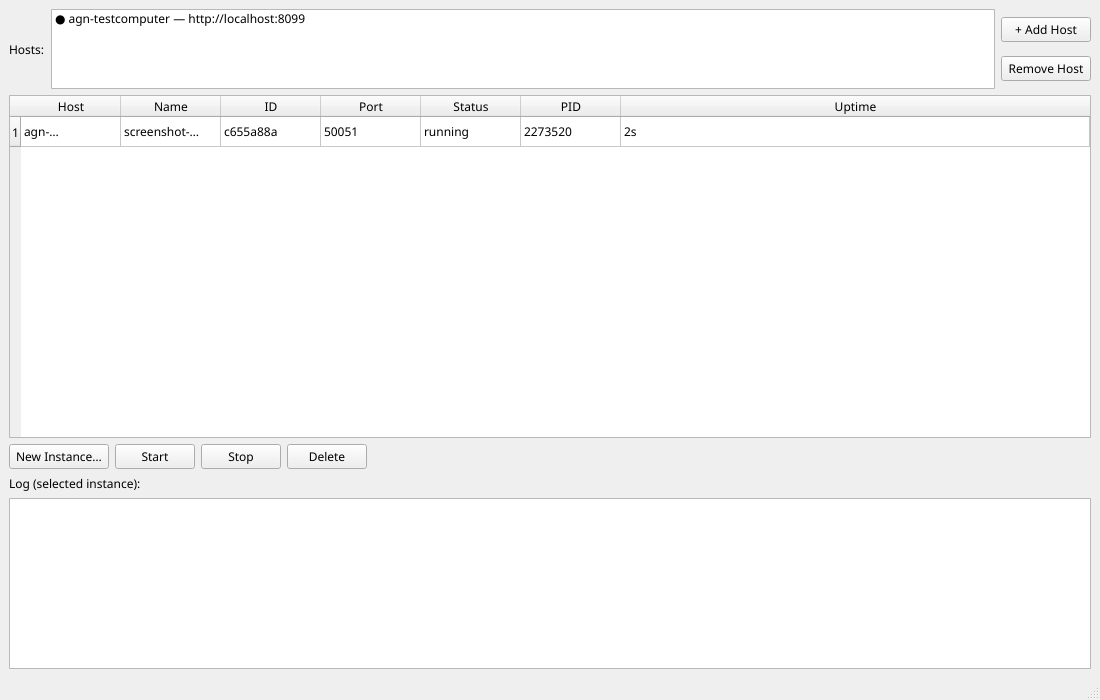
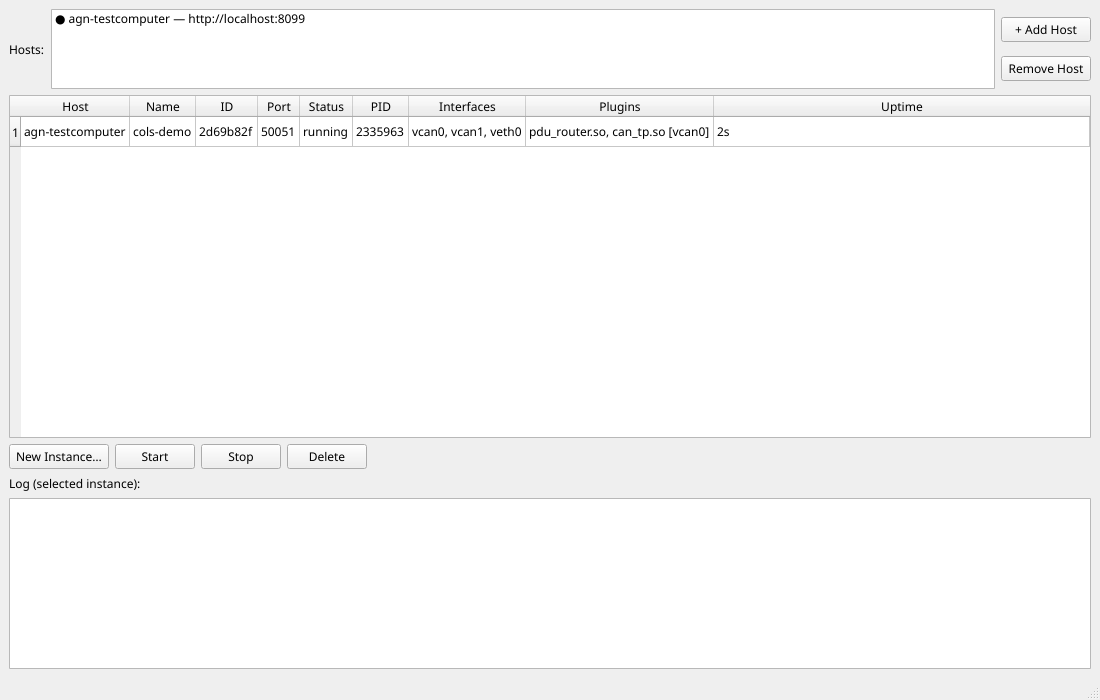
feat: add Interfaces/Plugins columns to admin GUI, fix a real stop-timeout bug
Instance table is now Host;Name;ID;Port;Status;PID;Interfaces;Plugins;
Uptime. Interfaces combines can_ifaces+eth_ifaces. Plugins shows each
node plugin's .so basename, with the interface it's bound to in
brackets when its config carries one (can_tp.so [vcan0]) -- the
'linked to the plugin' association requested. Added
resizeColumnsToContents() since the default even-width split
truncated the wider new columns.

Building a real screenshot to verify this (two plugins, one with an
iface config) surfaced a genuine bug along the way, not a test
artifact: AgentClient's default 5s timeout could be shorter than
GatewayInstance.stop()'s own worst case (SIGTERM + up to a 5s wait,
then SIGKILL) -- a real Stop click on a slightly slow shutdown could
read back a false 'Stop failed' timeout even though the gateway did
stop a moment later. Fixed by giving start_instance/stop_instance a
dedicated 15s timeout, well clear of that worst case; quick reads
(list/get/log) keep the original 5s default.

Verified on real hardware (agn-testcomputer, Xvfb + QWidget.grab(),
not headless-only): re-ran with the fix, no timeout, and the
screenshot confirms both new columns render fully -- 'vcan0, vcan1,
veth0' / 'pdu_router.so, can_tp.so [vcan0]' -- not truncated.
Screenshot in admin_gui/docs/screenshot.png updated to match.

Docs: admin_gui/README.md. Tests: test/AdminGui.md TC_AdminGui_005
(new, OK), TestSuite.md count 148->149.
backlog/launcher_agent_backlog.md records both the feature and the
[…]

Changed region(s): [[0.0309, 0.15, 0.6491, 0.21], [0.7727, 0.15, 0.8345, 0.18]]

diff --git a/admin_gui/main.py b/admin_gui/main.py
@@ -18,6 +18,7 @@ agent doesn't expose that either -- see the backlog).
 from __future__ import annotations
 
 import json
+import os
 import sys
 from typing import Optional, Tuple
 
@@ -48,6 +49,23 @@ from agent_client import AgentClient, AgentError
 from host_store import HostStore
 
 _POLL_INTERVAL_SEC = 2.0
+
+
+def _format_interfaces(inst: dict) -> str:
+    ifaces = list(inst.get("can_ifaces") or []) + list(inst.get("eth_ifaces") or [])
+    return ", ".join(ifaces) if ifaces else "—"
+
+
+def _format_plugins(inst: dict) -> str:
+    """One entry per node_plugins item: the .so basename, plus the iface it's
+    bound to (from its config, e.g. can_tp.so?{"iface": "vcan0"}) in brackets
+    when present -- that's the "linked to" association the table shows."""
+    parts = []
+    for p in inst.get("node_plugins") or []:
+        name = os.path.basename(p.get("path", "")) or p.get("path", "?")
+        iface = (p.get("config") or {}).get("iface")
+        parts.append(f"{name} [{iface}]" if iface else name)
+    return ", ".join(parts) if parts else "—"
 
 
 class PollWorker(QThread):
@@ -204,8 +222,10 @@ class MainWindow(QMainWindow):
         root.addLayout(host_bar)
 
         # ── Instance table ──
-        self.table = QTableWidget(0, 7)
-        self.table.setHorizontalHeaderLabels(["Host", "Name", "ID", "Port", "Status", "PID", "Uptime"])
+        self.table = QTableWidget(0, 9)
+        self.table.setHorizontalHeaderLabels(
+            ["Host", "Name", "ID", "Port", "Status", "PID", "Interfaces", "Plugins", "Uptime"]
+        )
         self.table.horizontalHeader().setStretchLastSection(True)
         self.table.setSelectionBehavior(QAbstractItemView.SelectRows)
         self.table.setSelectionMode(QAbstractItemView.SingleSelection)
@@ -305,7 +325,8 @@ class MainWindow(QMainWindow):
             uptime = f"{inst['uptime_sec']:.0f}s" if inst.get("uptime_sec") is not None else "—"
             values = [
                 host_name, inst["name"], inst["id"], str(inst["grpc_port"]),
-                inst["status"], str(inst["pid"] or "—"), uptime,
+                inst["status"], str(inst["pid"] or "—"),
+                _format_interfaces(inst), _format_plugins(inst), uptime,
             ]
             for c, v in enumerate(values):
                 item = QTableWidgetItem(v)
@@ -314,6 +335,10 @@ class MainWindow(QMainWindow):
         if select_row is not None:
             self.table.selectRow(select_row)
         self.table.blockSignals(False)
+        # Interfaces/Plugins can be the widest cells (multiple entries,
+        # iface annotations) -- size every column to its actual content
+        # instead of the default even split, which truncated them.
+        self.table.resizeColumnsToContents()
 
     def on_selection_changed(self) -> None:
         items = self.table.selectedItems()

diff --git a/admin_gui/agent_client.py b/admin_gui/agent_client.py
@@ -17,15 +17,25 @@ class AgentError(Exception):
     {"detail": ...} body when present)."""
 
 
+# start/stop spawn or tear down a whole boat_gateway process (SIGTERM,
+# then up to a 5s wait, then SIGKILL as a fallback -- see
+# ui/launcher_agent.py's GatewayInstance.stop()). A client-side timeout at
+# or below that 5s wait is a real, previously-hit bug: the server-side call
+# can legitimately take just over 5s and still succeed, but a <=5s client
+# timeout reads that as a failure -- a false "Stop failed" even though the
+# gateway did stop. Give lifecycle calls real headroom over that worst case.
+_LIFECYCLE_TIMEOUT = 15.0
+
+
 class AgentClient:
     def __init__(self, base_url: str, timeout: float = 5.0) -> None:
         self.base_url = base_url.rstrip("/")
         self.timeout = timeout
 
-    def _request(self, method: str, path: str, **kwargs) -> Any:
+    def _request(self, method: str, path: str, timeout: Optional[float] = None, **kwargs) -> Any:
         url = f"{self.base_url}{path}"
         try:
-            resp = requests.request(method, url, timeout=self.timeout, **kwargs)
+            resp = requests.request(method, url, timeout=timeout or self.timeout, **kwargs)
         except requests.RequestException as e:
             raise AgentError(f"{method} {url}: {e}") from e
         if not resp.ok:
@@ -73,10 +83,10 @@ class AgentClient:
         return self._request("POST", "/api/instances", json=body)
 
     def start_instance(self, instance_id: str) -> dict:
-        return self._request("POST", f"/api/instances/{instance_id}/start")
+        return self._request("POST", f"/api/instances/{instance_id}/start", timeout=_LIFECYCLE_TIMEOUT)
 
     def stop_instance(self, instance_id: str) -> dict:
-        return self._request("POST", f"/api/instances/{instance_id}/stop")
+        return self._request("POST", f"/api/instances/{instance_id}/stop", timeout=_LIFECYCLE_TIMEOUT)
 
     def delete_instance(self, instance_id: str) -> None:
         self._request("DELETE", f"/api/instances/{instance_id}")

diff --git a/backlog/launcher_agent_backlog.md b/backlog/launcher_agent_backlog.md
@@ -130,6 +130,37 @@ correctly — host list with a filled health dot, instance table showing the
 real running PID/uptime, action buttons, log panel all positioned and
 readable as designed.
 
+## Done (2026-08-12) — Interfaces/Plugins columns, and a real timeout bug they surfaced
+
+Added `Interfaces` and `Plugins` columns to the instance table (full order:
+Host, Name, ID, Port, Status, PID, Interfaces, Plugins, Uptime).
+`Interfaces` combines `can_ifaces` + `eth_ifaces`. `Plugins` shows each node
+plugin's `.so` basename, with the interface it's bound to in brackets when
+its config carries one (`can_tp.so [vcan0]`) — the "linked to the plugin"
+association the user asked for. `QTableWidget.resizeColumnsToContents()`
+added after populating rows, since the default even-width split truncated
+the wider Interfaces/Plugins cells.
+
+Building a real screenshot to check this (two plugins, one with an `iface`
+config) surfaced a genuine, previously-unnoticed bug, not a test artifact
+this time: `AgentClient`'s default 5s timeout could be shorter than
+`GatewayInstance.stop()`'s own worst case (SIGTERM + up to a 5s wait, then
+SIGKILL) — a real user clicking **Stop** in the UI on a slightly slow
+shutdown could get a false "Stop failed" read-timeout error even though the
+gateway did actually stop a moment later. First reproduction: two demo
+gateway processes ended up killed with `exit_code: -9` because an *external*
+test-harness `timeout` wrapper (not the app) expired while waiting on that
+same slow HTTP response and SIGKILLed the whole process group. Fixed by
+giving `start_instance`/`stop_instance` specifically a 15s client-side
+timeout (`_LIFECYCLE_TIMEOUT`), well clear of the server's worst case;
+quick reads (list/get/log) keep the original 5s default.
+
+Verified on real hardware: re-ran the same scenario with the fix and an
+adequately long harness timeout — no timeout, `stop_instance` returned
+normally, and the screenshot confirmed both new columns render correctly:
+`Interfaces: vcan0, vcan1, veth0`, `Plugins: pdu_router.so, can_tp.so
+[vcan0]`.
+
 ## Next steps (not started)
 
 - Interface-creation UI / agent endpoints (still deliberately deferred, see

diff --git a/test/AdminGui.md b/test/AdminGui.md
@@ -131,3 +131,44 @@ both, created one instance on each. The aggregated snapshot contained
 instances from both host URLs, and `win.rebuild_table()` produced exactly 2
 rows with distinct Host-column values (`host-a`, `host-b`) matching each
 instance's actual origin.
+
+---
+
+### TC_AdminGui_005_interfaces_and_plugins_columns
+
+**TestSets:** [AdminGui]
+
+**Preconditions:**
+- A reachable agent; at least one CAN and one Eth interface available on it
+
+**TestSteps:**
+1. **New Instance…** with multiple CAN interfaces, an Eth interface, and
+   two node plugins — one with an `{"iface": ...}` config, one without
+2. Observe the row's Interfaces and Plugins columns
+
+**Expected:**
+- Interfaces column lists CAN + Eth interfaces together, comma-separated
+- Plugins column lists each plugin's `.so` basename; the one with an
+  `iface` config shows it in brackets (`can_tp.so [vcan0]`), the one
+  without shows just the basename (`pdu_router.so`)
+- Columns aren't truncated -- sized to their actual content
+
+**Verdict:** OK
+
+**Result:**
+Verified with a real screenshot on real hardware (`agn-testcomputer`, Xvfb +
+`QWidget.grab()`, not headless-only): created an instance with
+`can_ifaces=["vcan0","vcan1"]`, `eth_ifaces=["veth0"]`, and
+`node_plugins=[pdu_router.so (no config), can_tp.so ({"iface":"vcan0"})]`.
+Row rendered `Interfaces: vcan0, vcan1, veth0` and
+`Plugins: pdu_router.so, can_tp.so [vcan0]`, both fully visible after adding
+`resizeColumnsToContents()` (the initial pass truncated both columns under
+the default even-width split).
+
+Building this screenshot also incidentally caught a real, previously-latent
+bug unrelated to these columns: `AgentClient`'s default 5s timeout could be
+shorter than a stop call's worst-case server-side duration (SIGTERM + up to
+a 5s wait + SIGKILL fallback), so a real Stop click could read back a false
+timeout error even though the gateway did stop. Fixed by giving
+`start_instance`/`stop_instance` a dedicated 15s timeout — see
+`backlog/launcher_agent_backlog.md` for the full account.

diff --git a/test/TestSuite.md b/test/TestSuite.md
@@ -23,9 +23,9 @@ from the **user's perspective** — CLI, gRPC via SDK, web UIs, tools, and the w
 | [Tools] | [Tools.md](Tools.md) | 18 | PDU Editor, Trace Analyzer, Trace Editor, Eth Analyzer, dbc2boatjson, offline operation |
 | [CLI] | [CLI.md](CLI.md) | 8 | Global flags, JSON mode, help accuracy, failure behavior, test runner, AI assistants, BOAT_HOST env var |
 | [LauncherAgent] | [LauncherAgent.md](LauncherAgent.md) | 5 | Multi-instance gateway lifecycle REST API: port auto-allocation, independent instances, duplicate-port rejection, delete-while-running rejection, host info |
-| [AdminGui] | [AdminGui.md](AdminGui.md) | 4 | PySide6 desktop client: host polling, create/start/stop via real UI actions, delete-refused-while-running dialog flow, multi-host aggregation |
+| [AdminGui] | [AdminGui.md](AdminGui.md) | 5 | PySide6 desktop client: host polling, create/start/stop via real UI actions, delete-refused-while-running dialog flow, multi-host aggregation, Interfaces/Plugins columns |
 
-**Total: 148 TestCases.**
+**Total: 149 TestCases.**
 
 ## Cross-cutting TestSets (no own file)
 

diff --git a/admin_gui/README.md b/admin_gui/README.md
@@ -42,9 +42,12 @@ either way it's the same `xcb` plugin doing the rendering).
    `http://` is added automatically if omitted). Each host needs
    `ui/launcher_agent.py` already running there (`python3 ui/launcher_agent.py`,
    default port 8090). Hosts persist across runs in `~/.boat/admin_hosts.json`.
-2. The instance table aggregates every instance from every added host,
+2. The instance table (Host, Name, ID, Port, Status, PID, Interfaces,
+   Plugins, Uptime) aggregates every instance from every added host,
    refreshing every 2 seconds. A host's dot in the host list is filled (●)
-   when reachable, hollow (○) when not.
+   when reachable, hollow (○) when not. **Plugins** shows each plugin's
+   `.so` basename, with the interface it's bound to in brackets when its
+   config carries one (`can_tp.so [vcan0]`).
 3. **New Instance…** picks a host, then defines CAN/Eth interfaces
    (comma-separated), node plugins (one per line: a `.so` path, optionally
    followed by a space and a JSON config object), an optional explicit gRPC
